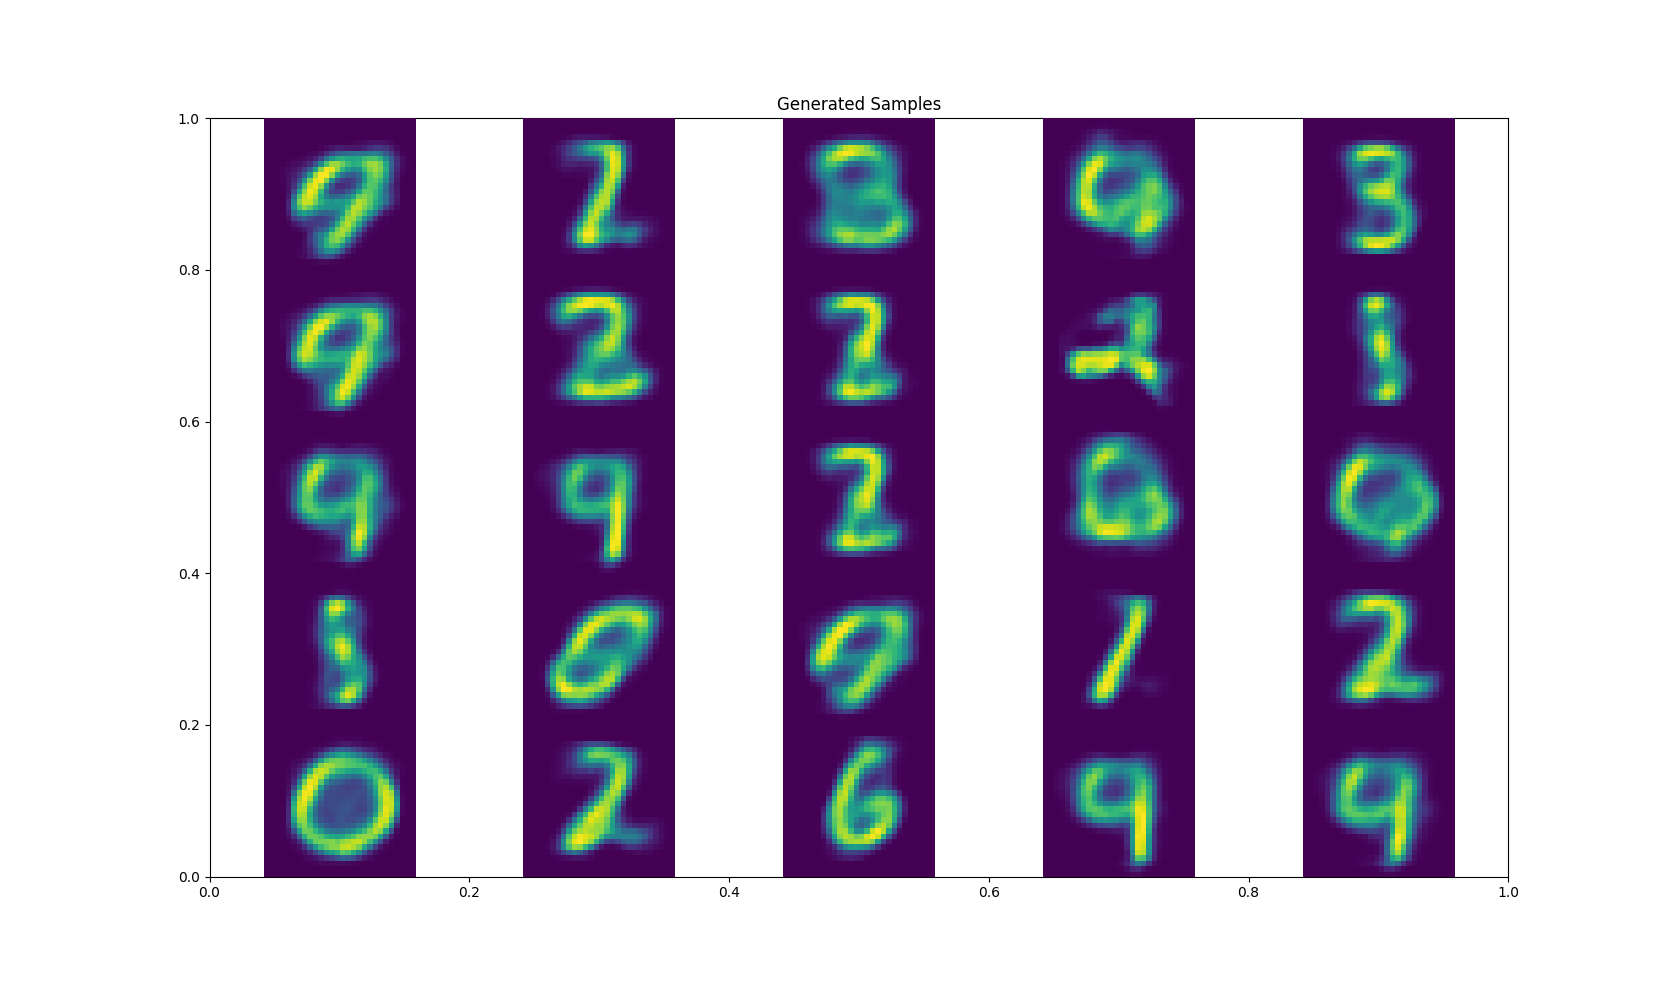
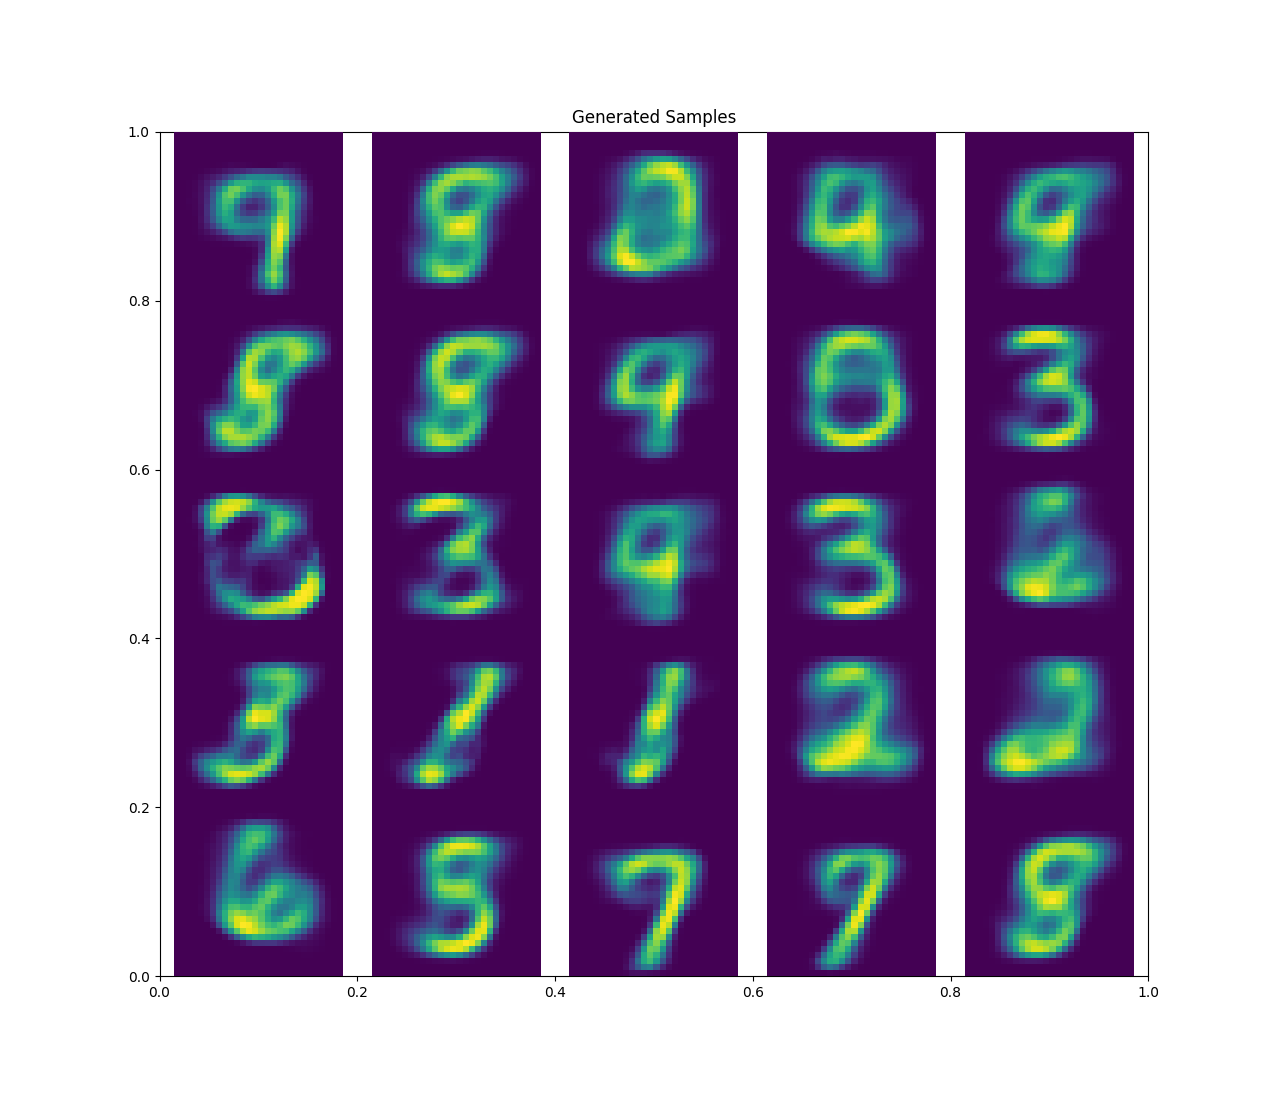
updated images and added more explanation

diff --git a/_posts/2018-05-15-Variational-Autoencoders.md b/_posts/2018-05-15-Variational-Autoencoders.md
@@ -15,17 +15,20 @@ $$z$$ is a **latent variable** from which our trainig data is generated from.
 We can't optimize this directly, so instead we derive and optimize a lower bound on the likelihood instead.
 
 ## Autoencoders
-Unsupervised approach to learning a lower-dimensional feature representation.
-- Encoder network to map some feature vector $$z$$.
-- Decoder maps $$z$$ back to the original input. 
 
+An autoencoder consists of two parts.
+- An encoder $$f(x)$$ that maps some input representation $$x$$ to a hidden, latent representiation $$z$$, 
+- A decoder $$g(h)$$ that reconstructs the hidden layer $$z$$ to get back the input $$x$$
+-
 ![autoencoder](https://deeplearning4j.org/img/deep_autoencoder.png)
 
-We can train by minimizing L2 loss between the input and the output.
+We usually add some constraints to the hidden layer - for example, by restricting the dimension of the hidden layer. An **undercomplete autoencoder** is one where $$dim(h) < dim(x)$$. 
 
-Encoder can be used to initialize a supevised model as a feature map. 
+By adding in some sort of regularization/prior, we encourage the autoencoder to learn a distributed representation of $$x$$ that has some interesting properties.
 
-We assume our training data is generated from an unobserved, latent representation $$z$$. You can read more about autoencoders [here]()
+We train by minimizing the $$L^2$$ loss between the input and output. It's important to note for an autoencoder to be efffective, we need some sort of regulazation/constraint - otherwise it's trivially simple for the autoencoder to learn the identity function. 
+
+The autoencoder is forced to consider these two terms - minimizing the regularazation cost as well as the reconstruction cost. In doing so, it learns a hidden representation of the data that has interesting properties. For example. the encoder can be used to initialize a supevised model as a feature map. 
 
 ## Variational Autoencoders
 As in regular autoencoders, we have our encoder and decoder networks, but because we are modeling probablistic generation, we generate a vector of **means** and **covariance** that represents $$z$$.
@@ -100,19 +103,21 @@ This allows the gradients to flow backwards fully.
 
 ![reparmaterization trick visualize](https://i.stack.imgur.com/TzX3I.png)
 
-## Application
+## Generation Samples
 
 I decided to write a simple variational autoencoder in pytorch. You can check out the code [here](https://github.com/jcaip/pytorch-playground/tree/master/vae). I ended up training my VAE on MNIST data and played around with generating samples.
 
 To generate data, we simply simply use the decoder network, and sample $$z$$ from our prior. Different dimensions of $$z$$ capture different factors of variation.
 
 ```python
+
 def generate(self, input_noise=None):
     if input_noise is None:
 	input_noise = torch.randn(self.latent_size)
 
     input_noise = input_noise.cuda()
     return self.decoder(input_noise)
+
 ```
 
 Here with $$z=2$$, I was able to generate some pretty alright samples.
